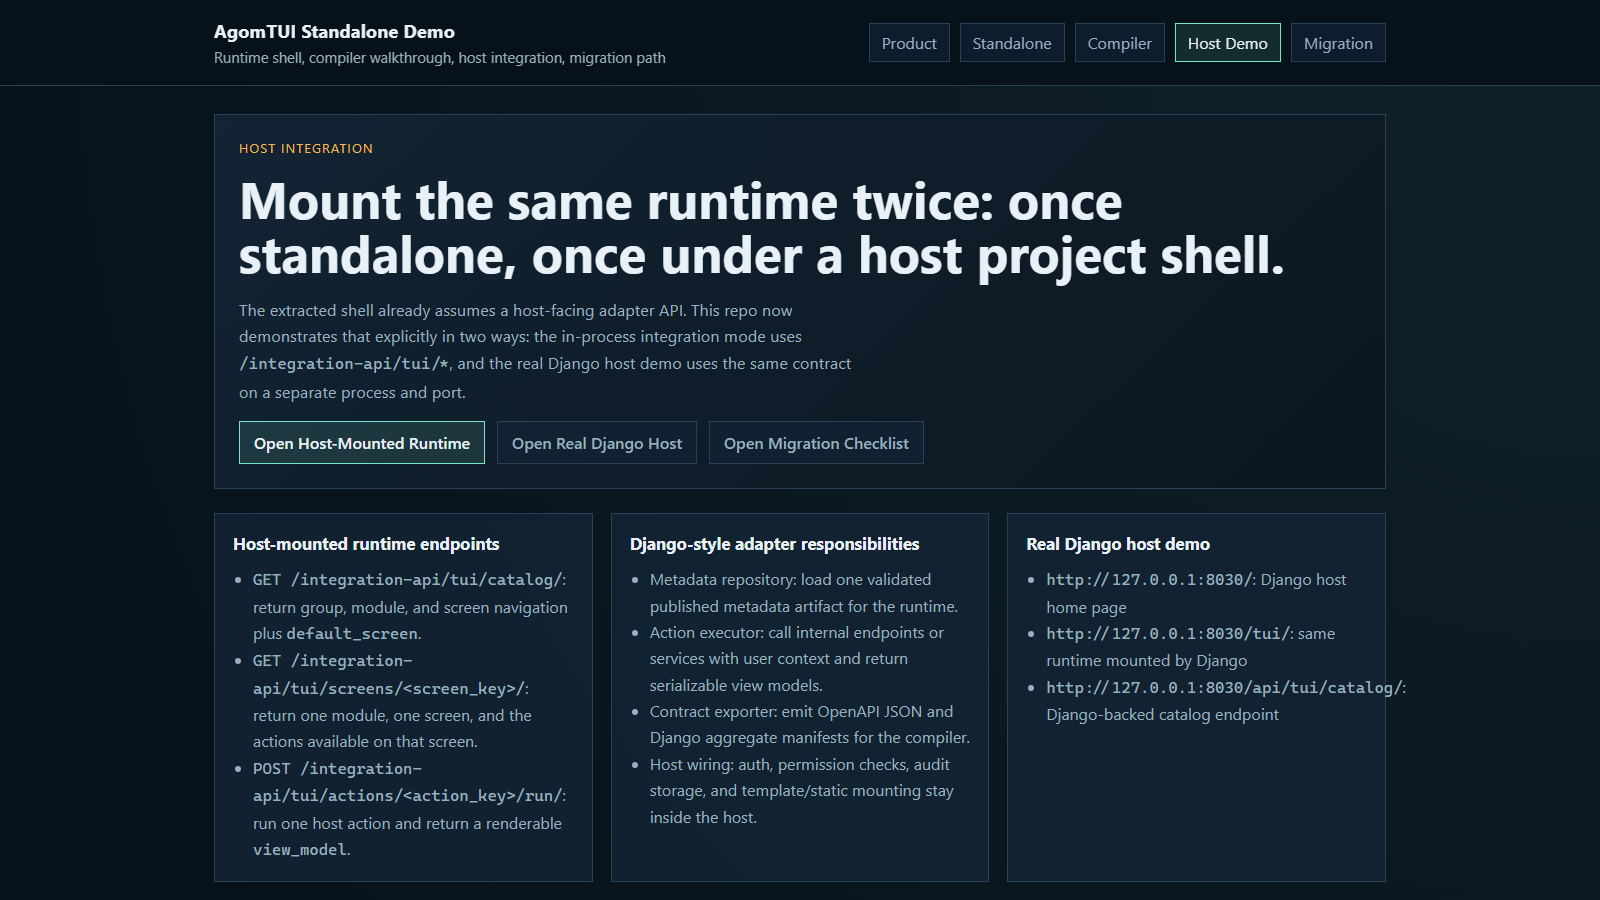
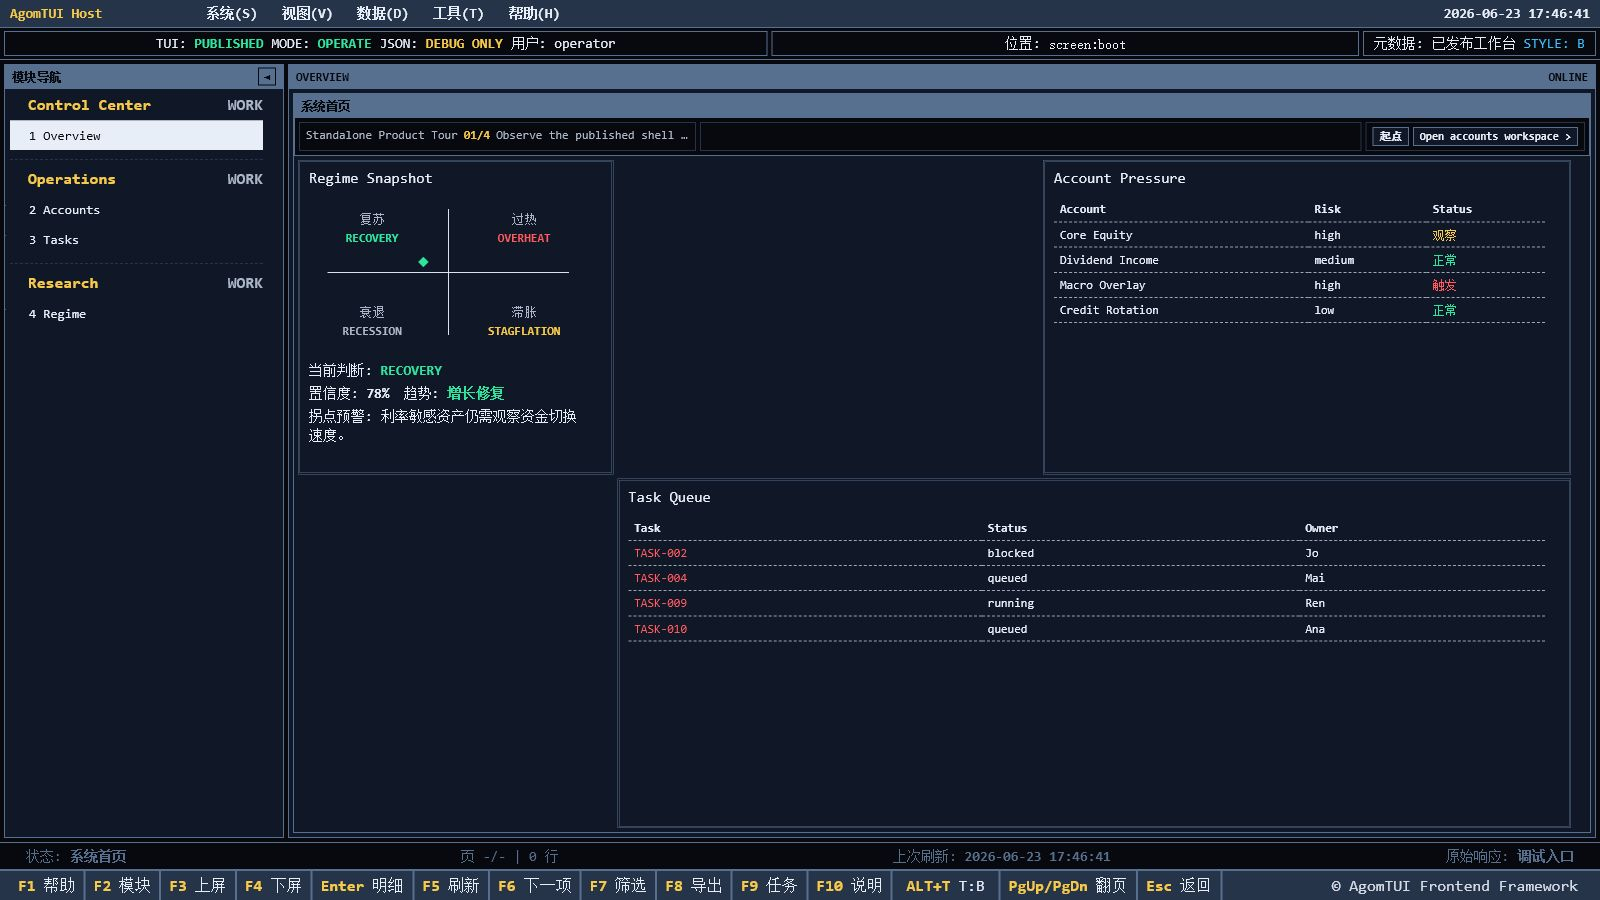
Polish TUI demo screenshots and host runtime

diff --git a/demo/standalone_server.py b/demo/standalone_server.py
@@ -1097,19 +1097,33 @@ def render_runtime_html(
     home_href: str,
     brand_label: str,
     api_base: str,
+    asset_base: str = "/standalone/static",
 ) -> bytes:
     source = (RUNTIME_REF / "tui_workbench.reference.html").read_text(encoding="utf-8")
     runtime_config = json.dumps({"apiBase": api_base}, ensure_ascii=False)
     runtime_config_tag = f'<script>window.__AGOMTUI_RUNTIME__ = {runtime_config};</script>'
+    normalized_asset_base = asset_base.rstrip("/")
     source = source.replace('href="/tui/"', f'href="{home_href}"')
     source = source.replace(">AgomTUI<", f">{esc(brand_label)}<")
-    source = source.replace("./static/css/tui-workbench.css", "/standalone/static/css/tui-workbench.css")
+    source = source.replace("./static/css/tui-workbench.css", f"{normalized_asset_base}/css/tui-workbench.css")
     source = source.replace(
         '<script src="./static/js/tui-workbench.js"></script>',
-        f"{runtime_config_tag}\n    <script src=\"/standalone/static/js/tui-workbench.js\"></script>",
+        f"{runtime_config_tag}\n    <script src=\"{normalized_asset_base}/js/tui-workbench.js\"></script>",
     )
     source = source.replace("<title>AgomTUI Workbench</title>", f"<title>{esc(title)}</title>")
     return source.encode("utf-8")
+
+
+def runtime_asset_payload(relative: str) -> tuple[bytes, str]:
+    asset_path = RUNTIME_REF / "static" / relative
+    if not asset_path.exists() or not asset_path.is_file():
+        raise FileNotFoundError(relative)
+    mime = "text/plain; charset=utf-8"
+    if asset_path.suffix == ".css":
+        mime = "text/css; charset=utf-8"
+    elif asset_path.suffix == ".js":
+        mime = "application/javascript; charset=utf-8"
+    return asset_path.read_bytes(), mime
 
 
 def local_url(port: int, path: str = "/") -> str:
@@ -1396,9 +1410,9 @@ class DemoRequestHandler(BaseHTTPRequestHandler):
             if mode == "integration":
                 self.respond_html(
                     render_runtime_html(
-                        title="AgomTradePro Host TUI",
+                        title="AgomTUI Host Workbench",
                         home_href="/integration/",
-                        brand_label="AgomTradePro",
+                        brand_label="AgomTUI Host",
                         api_base="/integration-api/tui",
                     )
                 )
@@ -1420,10 +1434,10 @@ class DemoRequestHandler(BaseHTTPRequestHandler):
             return
         if path == "/integration-tui/":
             self.respond_html(
-                self.runtime_html(
-                    title="AgomTradePro Host TUI",
+                render_runtime_html(
+                    title="AgomTUI Host Workbench",
                     home_href="/integration/",
-                    brand_label="AgomTradePro",
+                    brand_label="AgomTUI Host",
                     api_base="/integration-api/tui",
                 )
             )
@@ -1517,20 +1531,16 @@ class DemoRequestHandler(BaseHTTPRequestHandler):
 
     def respond_runtime_asset(self, path: str) -> None:
         relative = path.removeprefix("/standalone/static/")
-        asset_path = RUNTIME_REF / "static" / relative
-        if not asset_path.exists() or not asset_path.is_file():
+        try:
+            body, mime = runtime_asset_payload(relative)
+        except FileNotFoundError:
             self.respond_error_json(HTTPStatus.NOT_FOUND, f"Unknown asset: {path}")
             return
-        mime = "text/plain; charset=utf-8"
-        if asset_path.suffix == ".css":
-            mime = "text/css; charset=utf-8"
-        elif asset_path.suffix == ".js":
-            mime = "application/javascript; charset=utf-8"
         self.send_response(HTTPStatus.OK)
         self.send_header("Content-Type", mime)
-        self.send_header("Content-Length", str(asset_path.stat().st_size))
+        self.send_header("Content-Length", str(len(body)))
         self.end_headers()
-        self.wfile.write(asset_path.read_bytes())
+        self.wfile.write(body)
 
     def respond_html(self, body: bytes) -> None:
         self.send_response(HTTPStatus.OK)

diff --git a/demo/django_host/django_host/views.py b/demo/django_host/django_host/views.py
@@ -3,7 +3,7 @@ from __future__ import annotations
 import json
 from typing import Any
 
-from django.http import HttpRequest, HttpResponse, JsonResponse
+from django.http import Http404, HttpRequest, HttpResponse, JsonResponse
 from django.views.decorators.csrf import csrf_exempt
 from django.views.decorators.http import require_GET, require_POST
 
@@ -51,19 +51,30 @@ def host_home(request: HttpRequest) -> HttpResponse:
       </div>
     </section>
     """
-    return HttpResponse(demo.layout("AgomTradePro Django Host", body, active="integration"), content_type="text/html; charset=utf-8")
+    return HttpResponse(demo.layout("AgomTUI Django Host", body, active="integration"), content_type="text/html; charset=utf-8")
 
 
 @require_GET
 def host_tui(request: HttpRequest) -> HttpResponse:
     del request
     html = demo.render_runtime_html(
-        title="AgomTradePro Django Host TUI",
+        title="AgomTUI Django Host TUI",
         home_href="/",
-        brand_label="AgomTradePro Django",
+        brand_label="AgomTUI Host",
         api_base="/api/tui",
+        asset_base="/tui/static",
     )
     return HttpResponse(html, content_type="text/html; charset=utf-8")
+
+
+@require_GET
+def host_runtime_asset(request: HttpRequest, asset_path: str) -> HttpResponse:
+    del request
+    try:
+        body, mime = demo.runtime_asset_payload(asset_path)
+    except FileNotFoundError as error:
+        raise Http404(f"Unknown asset: {asset_path}") from error
+    return HttpResponse(body, content_type=mime)
 
 
 @require_GET

diff --git a/demo/django_host/django_host/tests.py b/demo/django_host/django_host/tests.py
@@ -12,6 +12,19 @@ class DjangoHostDemoTests(SimpleTestCase):
         self.assertEqual(response.status_code, 200)
         self.assertContains(response, "Real Django Host")
         self.assertContains(response, "Open Django-Mounted TUI")
+        self.assertContains(response, "AgomTUI Django Host")
+
+    def test_host_tui_uses_local_runtime_assets(self) -> None:
+        response = self.client.get("/tui/")
+        self.assertEqual(response.status_code, 200)
+        self.assertContains(response, "/tui/static/css/tui-workbench.css")
+        self.assertContains(response, "AgomTUI Host")
+
+    def test_runtime_asset_endpoint_serves_css(self) -> None:
+        response = self.client.get("/tui/static/css/tui-workbench.css")
+        self.assertEqual(response.status_code, 200)
+        self.assertEqual(response["Content-Type"], "text/css; charset=utf-8")
+        self.assertContains(response, ".tui-shell")
 
     def test_catalog_endpoint_returns_host_payload(self) -> None:
         response = self.client.get("/api/tui/catalog/")

diff --git a/demo/django_host/django_host/urls.py b/demo/django_host/django_host/urls.py
@@ -8,6 +8,7 @@ from . import views
 urlpatterns = [
     path("", views.host_home, name="host-home"),
     path("tui/", views.host_tui, name="host-tui"),
+    path("tui/static/<path:asset_path>", views.host_runtime_asset, name="host-runtime-asset"),
     path("api/tui/catalog/", views.host_catalog, name="host-catalog"),
     path("api/tui/screens/<path:screen_key>/", views.host_screen, name="host-screen"),
     path("api/tui/actions/<path:action_key>/run/", views.host_action, name="host-action"),

diff --git a/README.md b/README.md
@@ -11,7 +11,7 @@ Most internal tools stall in the same place:
 - the data API exists, but the usable operator UI does not
 - every new tool reimplements tables, detail views, filters, pagination, and action forms
 - risky actions need confirmation and traceability, but those rules are rebuilt screen by screen
-- one team wants a standalone console, another wants the same surface embedded inside an existing app
+- some teams want to launch it first as a standalone console, while others want to plug the same workbench into an existing Django or internal system
 
 AgomTUI is for that gap. It gives you a reviewed runtime shell for operations-heavy tools, plus a metadata path that lets one workbench drive many screens instead of rebuilding each page by hand.
 
@@ -34,17 +34,17 @@ With the demo alone, a user can immediately see:
 
 ## Demo
 
-### Product overview
+### Overview workspace
 
-![AgomTUI overview](docs/assets/demo-overview.png)
+![AgomTUI overview workspace](docs/assets/demo-overview.png)
 
 ### Standalone runtime workbench
 
 ![AgomTUI standalone runtime](docs/assets/demo-standalone.png)
 
-### Host integration demo
+### Host-mounted runtime
 
-![AgomTUI host integration demo](docs/assets/demo-host-mounted.png)
+![AgomTUI host-mounted runtime](docs/assets/demo-host-mounted.png)
 
 ## What you get
 

diff --git a/README.zh-CN.md b/README.zh-CN.md
@@ -11,7 +11,7 @@
 - 数据接口已经有了，但真正能给运营或风控人员用的界面还没有
 - 每做一个新工具，都要重新拼表格、详情页、筛选、分页、任务表单
 - 有风险的操作需要确认和约束，但这些规则总是每个页面重复做
-- 一部分团队想先跑独立控制台，另一部分团队又想把同样的能力挂回现有宿主系统
+- 有的团队想先把它当成独立控制台快速跑起来，另一些团队则希望把同一套工作台能力直接嵌入现有 Django 或内部系统里
 
 AgomTUI 就是为这类空档准备的。它提供一个可复用的运行时工作台外壳，让你不用每次都从零搭操作界面，同时保留把同一套 runtime 独立运行或挂进宿主应用的能力。
 
@@ -34,17 +34,17 @@ AgomTUI 就是为这类空档准备的。它提供一个可复用的运行时工
 
 ## Demo
 
-### 产品概览
+### 概览工作区
 
-![AgomTUI 产品概览](docs/assets/demo-overview.png)
+![AgomTUI 概览工作区](docs/assets/demo-overview.png)
 
 ### 独立运行时工作台
 
 ![AgomTUI 独立运行时](docs/assets/demo-standalone.png)
 
-### 宿主集成示例
+### 宿主挂载运行时
 
-![AgomTUI 宿主集成示例](docs/assets/demo-host-mounted.png)
+![AgomTUI 宿主挂载运行时](docs/assets/demo-host-mounted.png)
 
 ## 你实际拿到什么
 